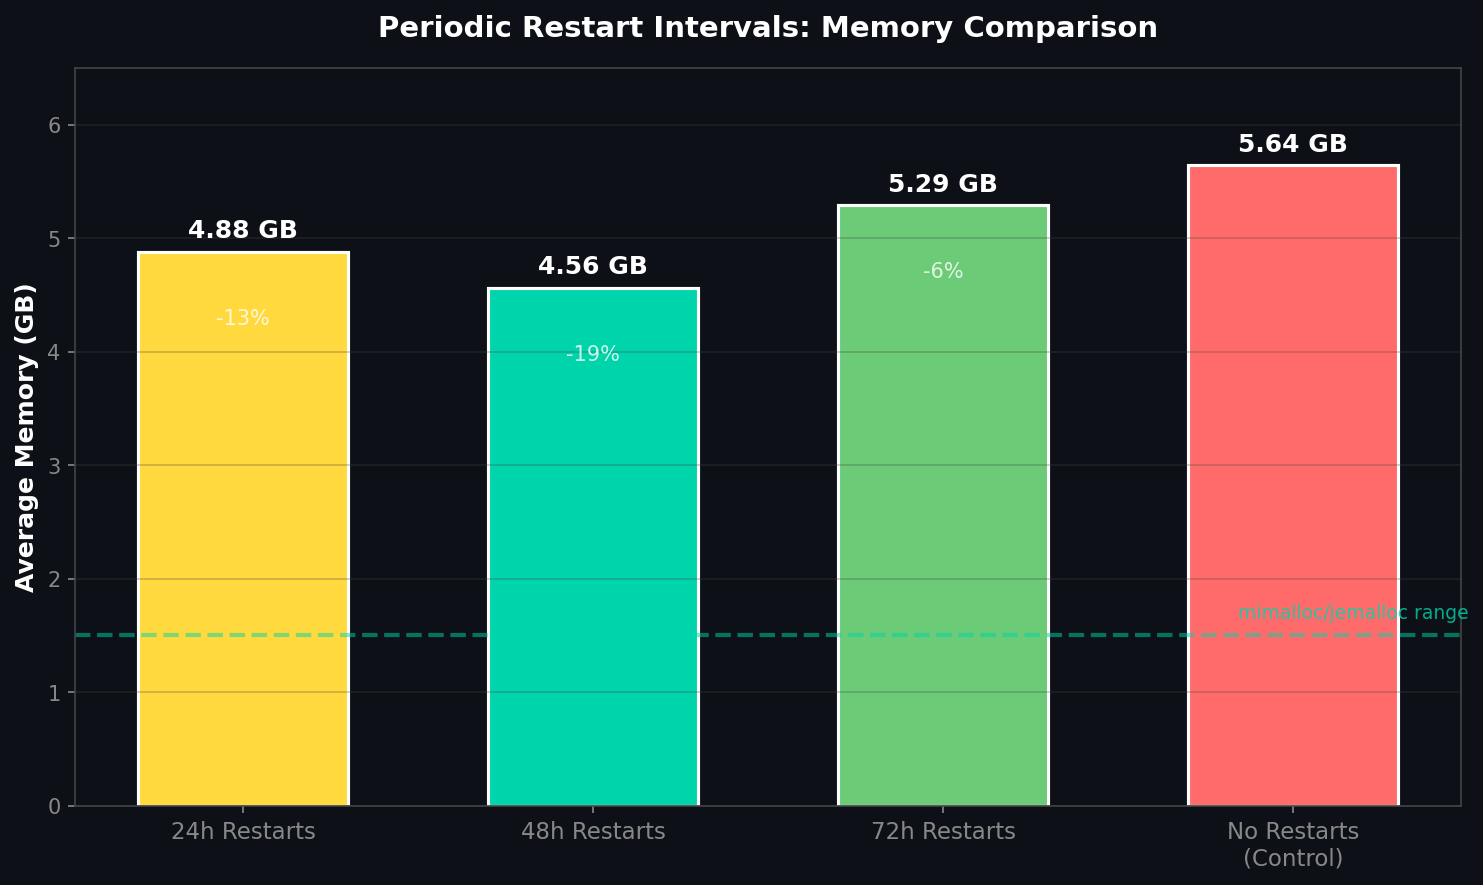
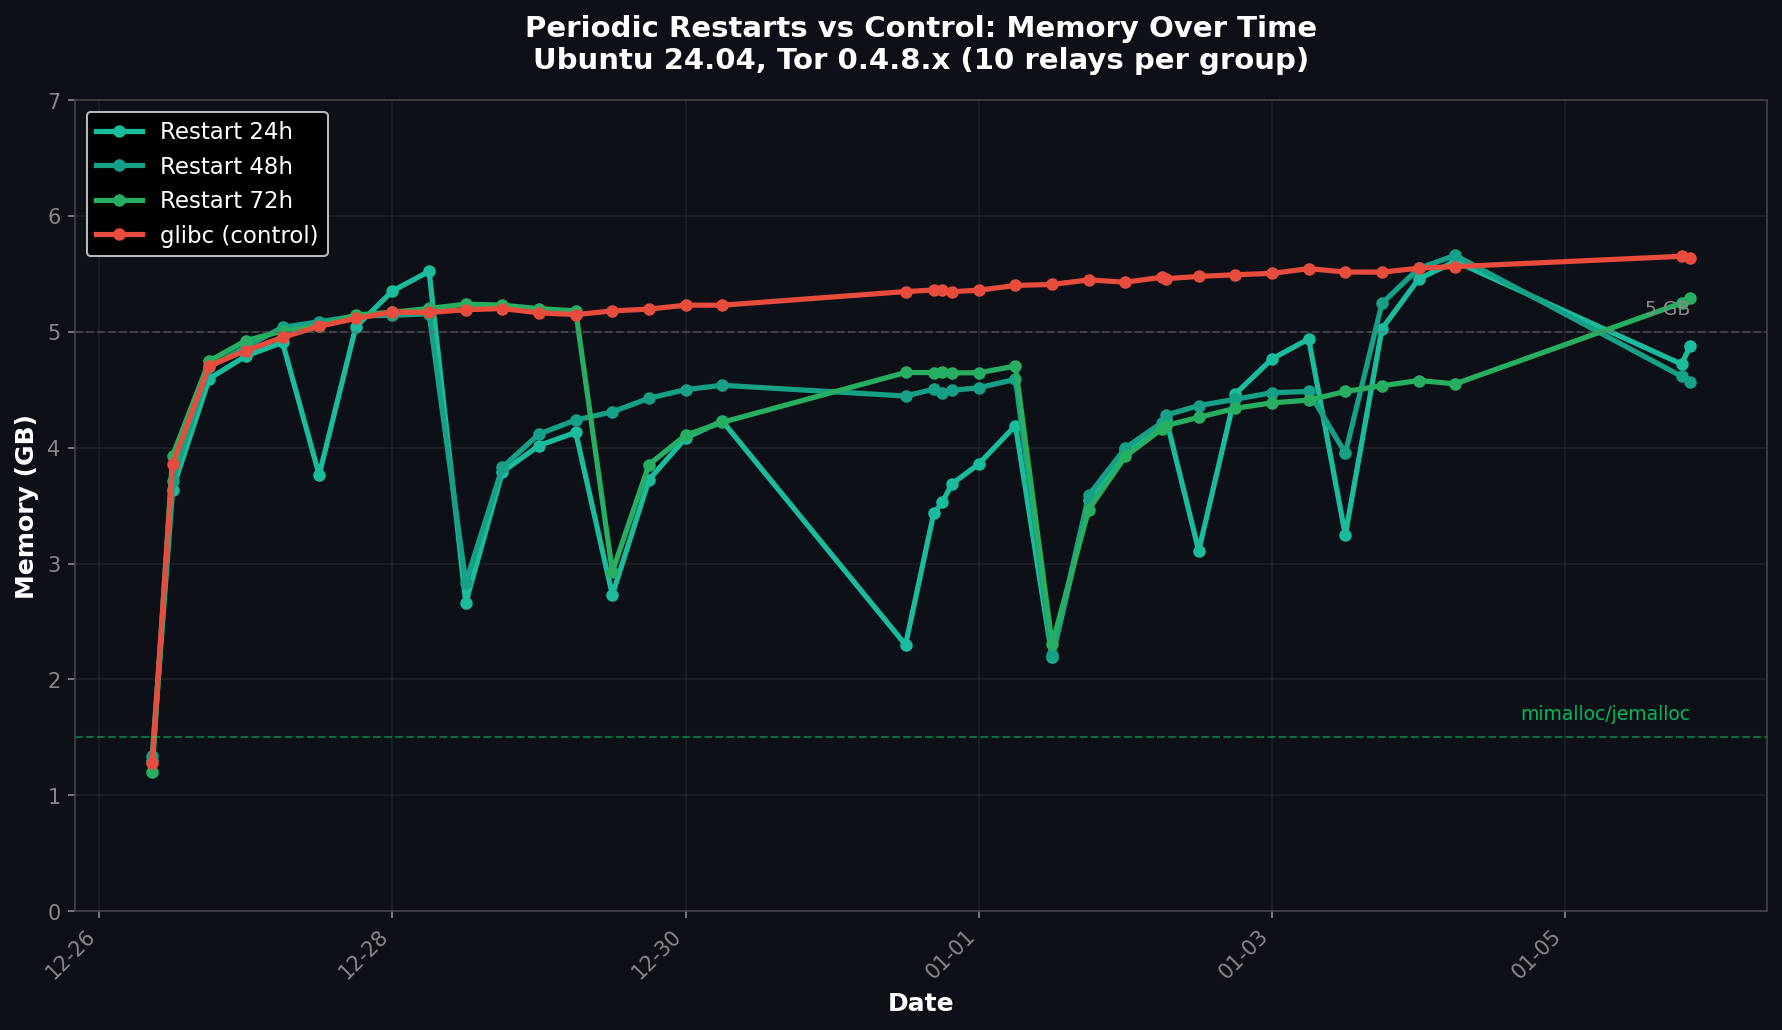
Refactor chart generation script for periodic restarts

diff --git a/memory/blogs/generate_restart_chart.py b/memory/blogs/generate_restart_chart.py
@@ -1,67 +1,112 @@
 #!/usr/bin/env python3
 """
-Generate chart for periodic restarts blog post.
-Data from Dec 2025 unified memory experiment (Groups F, G, H, Z).
+Generate time series chart for periodic restarts blog.
+Shows: restart-24h (F), restart-48h (G), restart-72h (H), glibc control (Z)
 """
 
+import csv
 import matplotlib.pyplot as plt
-import numpy as np
+import matplotlib.dates as mdates
+from datetime import datetime
+from collections import defaultdict
+from pathlib import Path
 
-def setup_dark_theme():
+CSV_FILE = Path("/workspace/memory/reports/2025-12-26-co-unified-memory-test/memory_measurements.csv")
+OUTPUT_FILE = Path("/workspace/memory/blogs/chart_restarts.png")
+
+# Only restart groups + control
+GROUP_CONFIG = {
+    'F': {'name': 'Restart 24h', 'color': '#1abc9c'},       # teal
+    'G': {'name': 'Restart 48h', 'color': '#16a085'},       # dark teal
+    'H': {'name': 'Restart 72h', 'color': '#27ae60'},       # green
+    'Z': {'name': 'glibc (control)', 'color': '#e74c3c'},   # red
+}
+
+def main():
+    print(f"Reading {CSV_FILE}...")
+    
+    data = defaultdict(lambda: defaultdict(list))
+    
+    with open(CSV_FILE, 'r') as f:
+        reader = csv.DictReader(f)
+        for row in reader:
+            if row['type'] != 'relay':
+                continue
+            
+            group = row.get('group', '')
+            if not group or group not in GROUP_CONFIG:
+                continue
+            
+            try:
+                timestamp = datetime.fromisoformat(row['timestamp'])
+                rss_kb = float(row['rss_kb'])
+                rss_gb = rss_kb / 1024 / 1024
+                data[group][timestamp].append(rss_gb)
+            except (ValueError, KeyError):
+                continue
+    
+    # Calculate averages
+    group_series = {}
+    for group in GROUP_CONFIG.keys():
+        timestamps = sorted(data[group].keys())
+        averages = [sum(data[group][t]) / len(data[group][t]) for t in timestamps]
+        group_series[group] = (timestamps, averages)
+    
+    # Create figure with dark theme
     plt.style.use('dark_background')
-    plt.rcParams['figure.facecolor'] = '#0d1117'
-    plt.rcParams['axes.facecolor'] = '#0d1117'
-    plt.rcParams['axes.edgecolor'] = '#444444'
-    plt.rcParams['axes.labelcolor'] = '#ffffff'
-    plt.rcParams['text.color'] = '#ffffff'
-    plt.rcParams['xtick.color'] = '#888888'
-    plt.rcParams['ytick.color'] = '#888888'
-    plt.rcParams['grid.color'] = '#444444'
-    plt.rcParams['grid.alpha'] = 0.3
-
-def create_restart_bar_chart():
-    """Create a bar chart comparing restart intervals."""
-    setup_dark_theme()
+    fig, ax = plt.subplots(figsize=(12, 7))
+    fig.set_facecolor('#0d1117')
+    ax.set_facecolor('#0d1117')
     
-    fig, ax = plt.subplots(figsize=(10, 6))
+    # Plot each group
+    for group, config in GROUP_CONFIG.items():
+        timestamps, values = group_series.get(group, ([], []))
+        if timestamps:
+            ax.plot(timestamps, values, 
+                   label=f"{config['name']}", 
+                   color=config['color'],
+                   linewidth=2.5,
+                   marker='o',
+                   markersize=5)
     
-    # Data from unified experiment
-    configs = ['24h Restarts', '48h Restarts', '72h Restarts', 'No Restarts\n(Control)']
-    values = [4.88, 4.56, 5.29, 5.64]
-    colors = ['#ffd93d', '#00d4aa', '#6bcb77', '#ff6b6b']
+    # Formatting
+    ax.set_xlabel('Date', fontsize=12, fontweight='bold')
+    ax.set_ylabel('Memory (GB)', fontsize=12, fontweight='bold')
+    ax.set_title('Periodic Restarts vs Control: Memory Over Time\nUbuntu 24.04, Tor 0.4.8.x (10 relays per group)', 
+                 fontsize=14, fontweight='bold', pad=15)
     
-    x = np.arange(len(configs))
-    bars = ax.bar(x, values, color=colors, edgecolor='white', linewidth=1.5, width=0.6)
+    ax.xaxis.set_major_formatter(mdates.DateFormatter('%m-%d'))
+    ax.xaxis.set_major_locator(mdates.DayLocator(interval=2))
+    plt.xticks(rotation=45, ha='right')
     
-    # Add value labels on bars
-    for bar, val in zip(bars, values):
-        ax.text(bar.get_x() + bar.get_width()/2, bar.get_height() + 0.08,
-                f'{val:.2f} GB', ha='center', va='bottom', fontsize=12, fontweight='bold')
+    ax.grid(True, alpha=0.3, color='#444444')
+    ax.legend(loc='upper left', fontsize=11, framealpha=0.9)
     
-    # Add reduction percentages
-    reductions = ['-13%', '-19%', '-6%', '—']
-    for i, (bar, red) in enumerate(zip(bars, reductions)):
-        if red != '—':
-            ax.text(bar.get_x() + bar.get_width()/2, bar.get_height() - 0.5,
-                    red, ha='center', va='top', fontsize=10, color='white', alpha=0.8)
+    ax.set_ylim(bottom=0, top=7)
     
-    ax.set_ylabel('Average Memory (GB)', fontsize=12, fontweight='bold')
-    ax.set_title('Periodic Restart Intervals: Memory Comparison', fontsize=14, fontweight='bold', pad=15)
+    # Reference lines
+    ax.axhline(y=5, color='#666666', linestyle='--', alpha=0.5, linewidth=1)
+    ax.text(group_series['Z'][0][-1], 5.15, '5 GB', fontsize=9, color='#888888', ha='right')
     
-    ax.set_xticks(x)
-    ax.set_xticklabels(configs, fontsize=11)
-    ax.set_ylim(0, 6.5)
-    ax.grid(True, axis='y', alpha=0.3)
+    # Add reference for allocator performance
+    ax.axhline(y=1.5, color='#00ff7f', linestyle='--', alpha=0.4, linewidth=1)
+    ax.text(group_series['Z'][0][-1], 1.65, 'mimalloc/jemalloc', fontsize=9, color='#00ff7f', alpha=0.7, ha='right')
     
-    # Add horizontal reference line for allocator performance
-    ax.axhline(y=1.5, color='#00d4aa', linestyle='--', alpha=0.5, linewidth=2)
-    ax.text(3.5, 1.65, 'mimalloc/jemalloc range', fontsize=9, color='#00d4aa', alpha=0.8, ha='right')
+    for spine in ax.spines.values():
+        spine.set_color('#444444')
+    ax.tick_params(colors='#888888')
     
     plt.tight_layout()
-    fig.savefig('/workspace/memory/blogs/chart_restarts.png', 
-                facecolor='#0d1117', edgecolor='none', dpi=150, bbox_inches='tight')
-    plt.close(fig)
-    print("Created: /workspace/memory/blogs/chart_restarts.png")
+    
+    print(f"Saving to {OUTPUT_FILE}...")
+    plt.savefig(OUTPUT_FILE, dpi=150, bbox_inches='tight', facecolor='#0d1117', edgecolor='none')
+    print(f"Done!")
+    
+    print("\n--- Final Memory ---")
+    for group, (timestamps, values) in sorted(group_series.items(), key=lambda x: x[1][1][-1] if x[1][1] else 99):
+        if values:
+            config = GROUP_CONFIG[group]
+            print(f"  {config['name']}: {values[-1]:.2f} GB")
 
 if __name__ == '__main__':
-    create_restart_bar_chart()
+    main()
